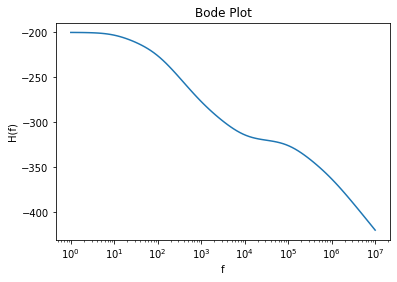
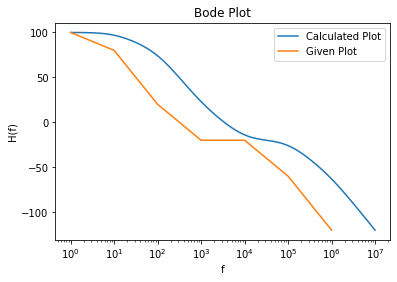
Update

diff --git a/manual/codes/ee18btech11001/ee18btech11001.py b/manual/codes/ee18btech11001/ee18btech11001.py
@@ -26,9 +26,9 @@ def getTransferFunction(Slopes):
         if dSlopes[i]%20!=0:
             return None
         if dSlopes[i]>=0 :
-            Num += [-10**(i+1)]*(dSlopes[i]//20)
+            Num += [10**(i+1)]*(dSlopes[i]//20)
         else:
-            Den += [-10**(i+1)]*(-dSlopes[i]//20)
+            Den += [10**(i+1)]*(-dSlopes[i]//20)
         
     
     return np.array(Num),np.array(Den)
@@ -37,7 +37,8 @@ num = np.poly(Num)
 den = np.poly(Den)
 from scipy import signal
 import matplotlib.pyplot as plt
-s1 = signal.lti(num, den) 
+k = 1e5*den[-1]/num[-1]
+s1 = signal.lti(num*k, den) 
 
 w, mag, phase = signal.bode(s1)
 plt.figure()
@@ -45,11 +46,12 @@ plt.xlabel("f")
 plt.ylabel("H(f)")
 plt.title("Bode Plot")
 plt.semilogx(w, mag)    # Bode magnitude plot
+x = np.array([1,10,100,1000,10000,1e5,1e6])
+y = []
+k = 100
+for i in range(len(x)):
+    k+=Slopes[i]
+    y.append(k)
 
-s1 = signal.ZerosPolesGain(Num, Den ,1 )
-w, H = signal.freqresp(s1)
-plt.figure()
-plt.plot(H.real, H.imag, "b")
-plt.plot(H.real, -H.imag, "r")
-plt.title("Nyquist Plot")
-plt.show()
+plt.plot(x,y)
+plt.legend(["Calculated Plot" , "Given Plot"])   

diff --git a/manual/chapters/ee18btech11001.tex b/manual/chapters/ee18btech11001.tex
@@ -11,17 +11,16 @@
 \end{figure}
 
 { Solution:- }
-\begin{flushleft}
 \textsf{Let us consider a generalized transfer gain}
-\end{flushleft}
-\vspace{10pt}
-$H(s) = k \dfrac{(s-z_{1})(s-z_{2})...(s-z_{m-1})(s-z_{m})}{(s-p_{1})(s-p_{2})....(s-p_{n-1})(s-p_{n})}$\vspace{18pt}\\
+\vspace{5pt}
+\\
+$H(s) = k \dfrac{(s-z_{1})(s-z_{2})...(s-z_{m-1})(s-z_{m})}{(s-p_{1})(s-p_{2})....(s-p_{n-1})(s-p_{n})}$\vspace{8pt}\\
 \begin{multline}
-    $Gain = 20\log\abs{H(s)} = 20\log \abs{k} + 20\log \abs{s-z_{1}} 
+Gain = 20\log\abs{H(s)} = 20\log \abs{k} + 20\log \abs{s-z_{1}} 
     \\
     + 20\log \abs{s-z_{2}} + \dots + 20\log \abs{s-z_{m}} - 20\log \abs{s-p_{1}} 
     \\
-    - 20\log \abs{s-p_{2}} - \dots - 20\log \abs{s-z_{n}} $ 
+    - 20\log \abs{s-p_{2}} - \dots - 20\log \abs{s-z_{n}} 
 \end{multline}
 
 \begin{left}
